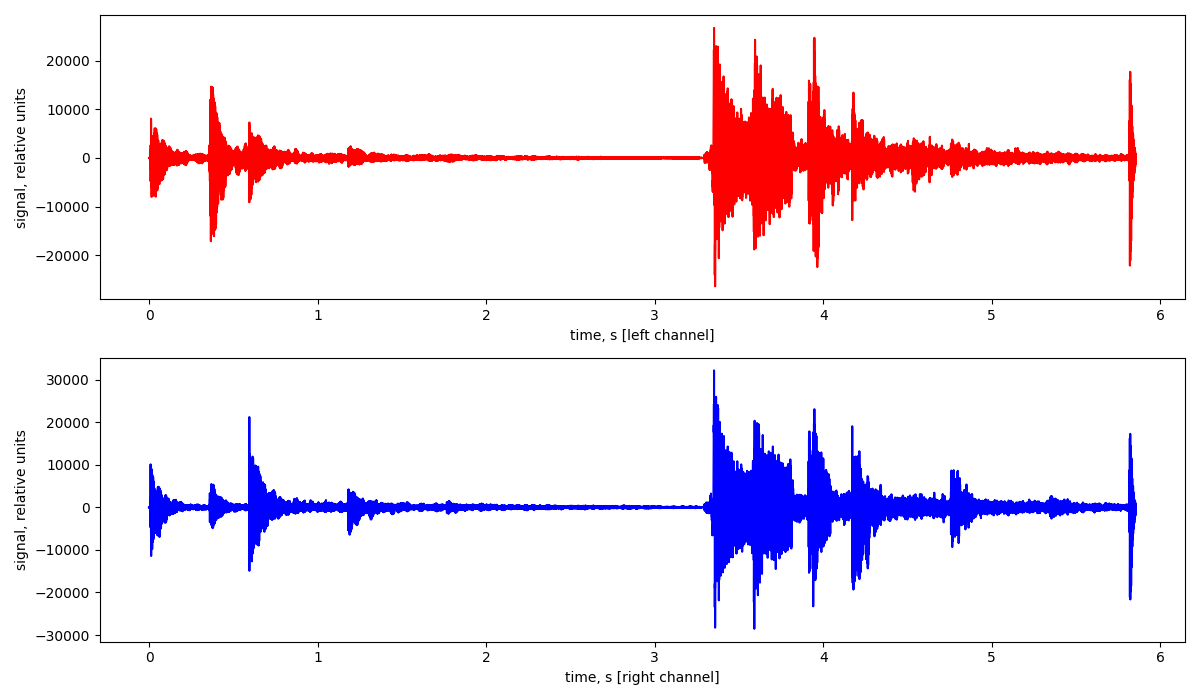
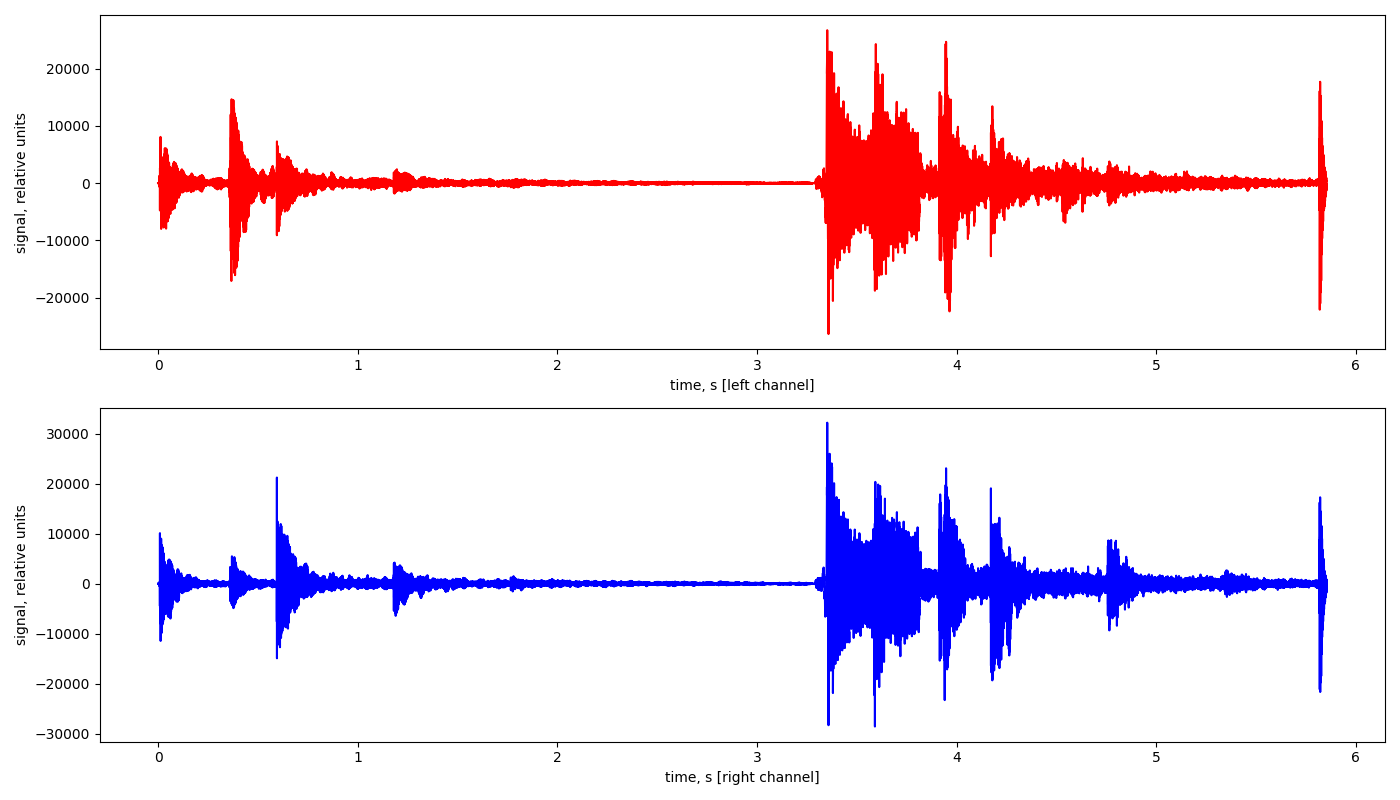
update imgs resolution

diff --git a/main.py b/main.py
@@ -5,8 +5,8 @@ from scipy.io import wavfile
 
 
 def musitic():
-    plt.rcParams['figure.dpi'] = 100
-    plt.rcParams['figure.figsize'] = (12, 7)
+    plt.rcParams['figure.dpi'] = 72
+    plt.rcParams['figure.figsize'] = (14, 8)
 
     sampFreq, sound = wavfile.read('audio/32943-short.wav')
 
